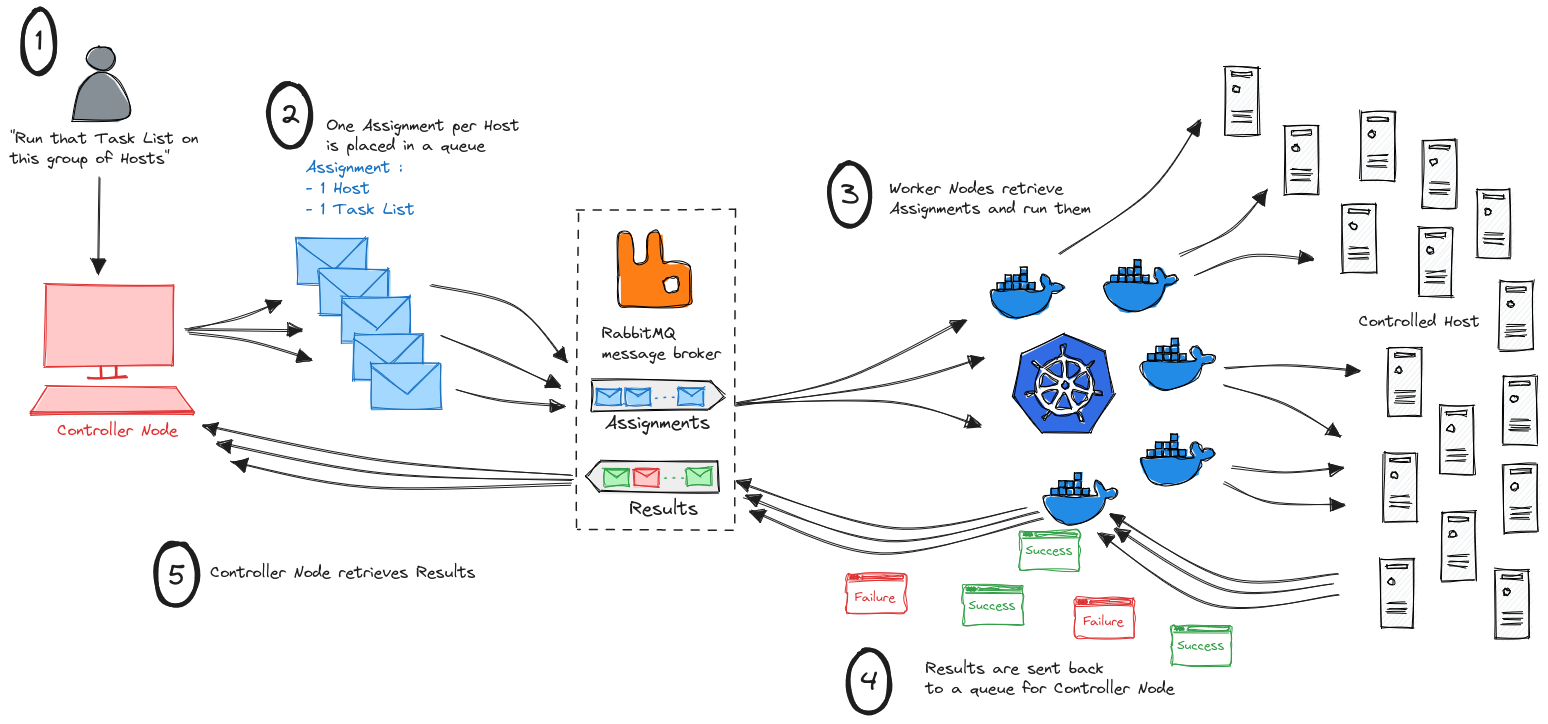
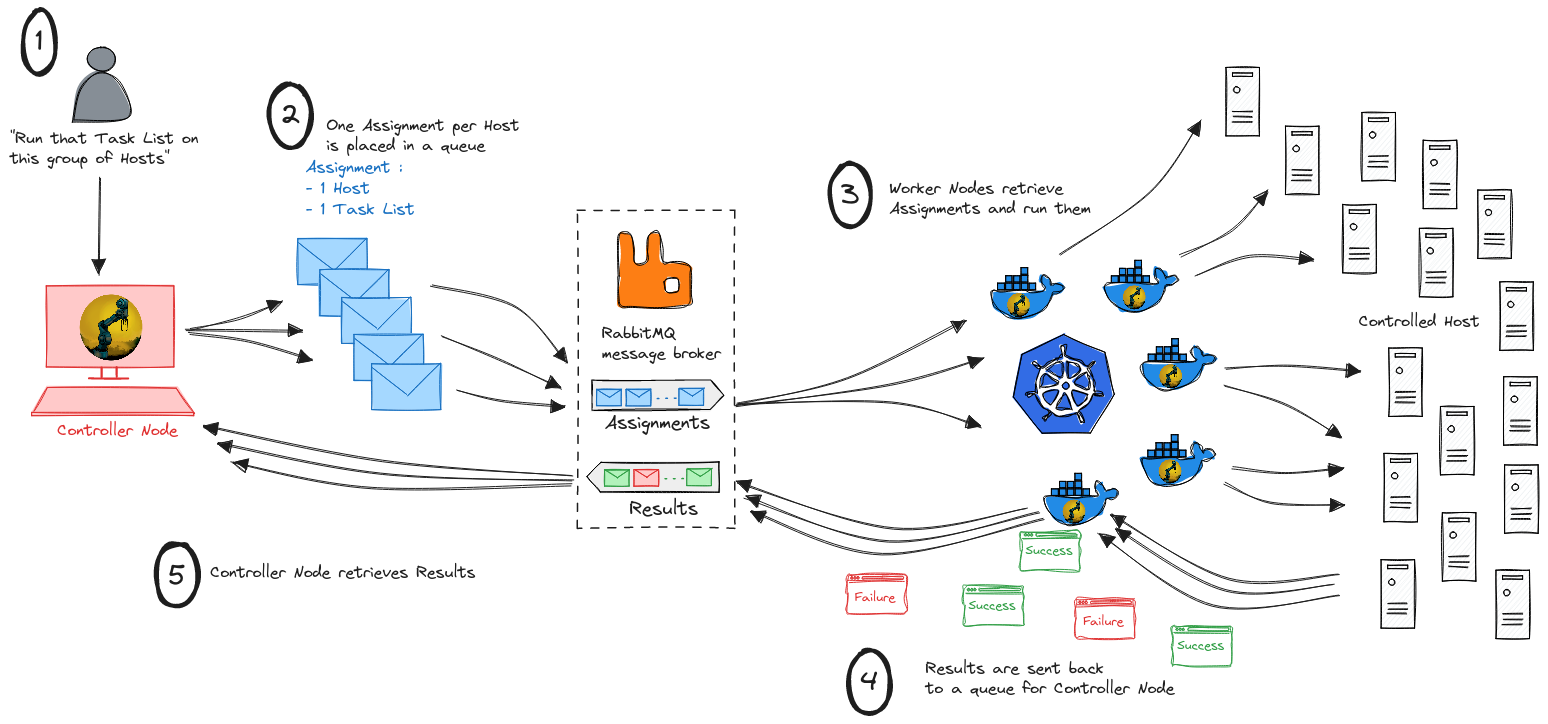
Illustrations and goal updated (among other things)

diff --git a/README.md b/README.md
@@ -1,25 +1,36 @@
-# Dux : a large-scale automation tool written in Rust (proof of concept)
+# Dux : automation tools written in Rust
 <div align="center">
 <img src="img/dux.png" width="25%">
 </div>
 
-# Our goal
-Build a scalable automation tool ready to handle a massive amount of remote hosts in parallel.
-It comes in 3 versions :
+# The goal
+Instead of having one big automation tool (meaning configuration management or orchestration tool) trying to handle all scenarios (be scalable, performant, handle local and remote hosts through this protocol or this one, be compliant with this security standard and this one...), we prefer to build one flexible automation *engine* (the [duxcore](https://crates.io/crates/duxcore) crate) and to make it as easy as possible to embed it in a codebase already adapted to your very specific need.
+
+This repository contains 3 proof of concept AKA examples of how the [duxcore](https://crates.io/crates/duxcore) can be used :
 - scalable version : 3 components (Controller Node / Message Broker / Worker Node)
-- all-in-one version : 1 executable which does everything (run TaskList on all the controlled hosts)
-- agent version (to be done): dux installed as a service on a host and regularly enforcing a TaskList which can be a local/remote file or a URL (pointing to a git repository for example)
+- standard version : 1 executable which does everything (run TaskList on a Host List)
+- agent version (coming soon): dux installed as a service on a host and regularly enforcing a TaskList which can be a local/remote file or a URL (pointing to a git repository for example)
+
+Other possibilities :
+  - use [Apache Kafka](https://kafka.apache.org/) instead of [RabbitMQ](https://www.rabbitmq.com/)
+  - use [gRPC](https://grpc.io/) to have controller and worker communicate with one another
+  - build an interactive console where you pass module calls ("apt git present"), it's instantly applied to the Hosts list and you directly get the results
+  - ...
 
 # Scalable version
-**Overview**
 <div align="center">
 <img src="img/scalable-illustration.png" width="100%">
 </div>
-A worker node can be either a physical/virtual machine or a container. To increase the capacity of the system, just increase the number of worker nodes or their ability to multithread (number of CPU cores basically). 
+A worker node can be either a physical/virtual machine or a container. To increase the capacity of the system, just increase the number of worker nodes or their ability to multithread (number of CPU cores basically).
 
-# All-in-one version
+# Standard version
+<div align="center">
+<img src="img/standard-illustration.png" width="100%">
+</div>
+Classic use case : a binary running on a Host and reaching out to other Hosts to apply some configuration (AKA Task list)
 
-**Usage** : ```dux -t <tasklist.yaml> -l <hostlist.yaml> -k <SSH private key> -u <username>```
+# Basic usage
+With the standard version : ```dux -t <tasklist.yaml> -l <hostlist.yaml> -k <SSH private key> -u <username>```
 
 *with `tasklist.yaml`*
 ~~~
@@ -104,7 +115,7 @@ Task : Prerequisites
 | `ping` | Test SSH connectivity with remote host |
 | `yum` | Manage packages on Fedora-like distributions (no difference with `dnf`) |
 
-# Have a remote host handled by Dux all-in-one version
+# Have a remote host handled by Dux
 
 ## On controlled host
 As for other automation tools, Dux needs an account to use on the controlled host. Let's create a `dux` user on the controlled host and give it some privileges :
@@ -119,7 +130,7 @@ sudo usermod -aG sudo dux
 echo "dux ALL = (root) NOPASSWD:ALL" | sudo tee /etc/sudoers.d/dux
 ```
 
-## On controller host (all-in-one version or worker node)
+## On controller host
 The ideal is to have a SSH passwordless connection :
 ```
 # Generate a SSH key (no passphrase for the example)
@@ -129,7 +140,7 @@ ssh-keygen -t ed25519 -f controller_key -N "" -q
 ssh-copy-id -i controller_key.pub dux@<controlled host address>
 ```
 
-**After this, you can use `dux` like this from the master host**
+**After this, you can use `dux` like this from the controller node**
 
 ```dux -t <tasklist.yaml> -l <hostlist.yaml> -u dux -k <path to controller_key>```
 
@@ -148,16 +159,16 @@ A `lineinfile.rs` file is created in `lib/taskexec/src/modules`. Now you only ha
 ## Want to talk about this project ?
 Open to suggestions, feedback, requests and any contribution ! Let's talk [here](https://discord.com/invite/2gxAW7uzsx) !
 
-## Todo list
+# Todo list
 - [x] All: introduce variabilization in TaskLists
 - [x] All: introduce configuration files
 - [ ] All: optimization (lots of `clone` out there)
 - [ ] All: error handling (lots of `unwrap` out there)
-- [ ] HostList: introduce aliases
+- [ ] HostList: introduce aliases and connection mode
 - [x] HostList: introduce parameters (per all/group/host)
 - [ ] HostList: add JSON format handling
 - [ ] TaskExec: modules need to produce a standardized JSON result
-- [ ] CLI: checks and argument need to be adapted between all-in-one, controller and worker exec
+- [X] CLI: checks and argument need to be adapted between all-in-one, controller and worker exec
 - [ ] RabbitMQ: turn connections parts into a crate
 - [ ] RabbitMQ: add resiliency mechanisms (lost connection...etc)
 - [ ] All: add unit tests and integration tests
@@ -170,8 +181,9 @@ Open to suggestions, feedback, requests and any contribution ! Let's talk [here]
 - [ ] mode pass-on-demand (TaskList applied only when asked) VS watcher (TaskList applied on a regular basis by the Controller/Worker) VS agent (exec with an Assignment embedded in Controlled Host which regularly applies it on localhost)
 - [ ] agent version : dux running on a Host as a service, regularly retrieving TaskList from a local file, a remote host or a URL (git repo) and applying it to localhost -> pull mode : the controlled Host are actually the ones that fetch TaskList and apply it to themselves, instead of waiting for a Worker node to take care of them (push)
 - [ ] Scalable: introduce end-to-end encryption [(Ockam ?)](https://github.com/build-trust/ockam)
+- [ ] Create a gRPC based version
 
-## License
+# License
 Licensed under the Apache License, Version 2.0 (the "License");
 you may not use this file except in compliance with the License.
 You may obtain a copy of the License at
